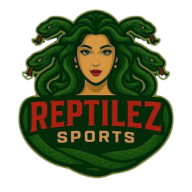
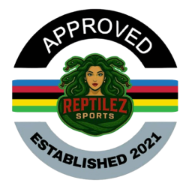
Replace the title and context

diff --git a/public/index.html b/public/index.html
@@ -13,7 +13,7 @@
 
     <meta
       name="description"
-      content="Reptilez Cycling Club - RCC is a premier amateur cycling team based in Tarlac and Pangasinan, dedicated to youth development and competitive racing. We nurture young riders through structured training that builds both performance and good character. Our mission is to become a model club that inspires the next generation of Filipino cyclists."
+      content="D&R Margin Racing - RCC is a premier amateur cycling team based in Tarlac and Pangasinan, dedicated to youth development and competitive racing. We nurture young riders through structured training that builds both performance and good character. Our mission is to become a model club that inspires the next generation of Filipino cyclists."
     />
     
     <!-- Open Graph / Facebook / Instagram -->
@@ -22,7 +22,7 @@
     <meta property="og:title" content="Reptilez Cycling Club" />
     <meta property="og:description" content="Reptilez Cycling Club is a premier amateur cycling team based in Tarlac and Pangasinan, dedicated to youth development and competitive racing. We nurture young riders through structured training that builds both performance and good character." />
     <meta property="og:image" content="https://reptilezcyclingclub.com/rcc_bg.jpg" />
-    <meta property="og:image:secure_url" content="https://reptilezcyclingclub.com/rcc_bg.jpg" />
+    <meta property="og:image:secure_url" content="https://reptilezcyclingclub.com/rcc4-with-bg.jpg" />
     <meta property="og:image:type" content="image/jpeg" />
     <meta property="og:image:width" content="1200" />
     <meta property="og:image:height" content="630" />
@@ -35,7 +35,7 @@
     <meta name="twitter:url" content="https://reptilezcyclingclub.com/" />
     <meta name="twitter:title" content="Reptilez Cycling Club" />
     <meta name="twitter:description" content="Reptilez Cycling Club is a premier amateur cycling team based in Tarlac and Pangasinan, dedicated to youth development and competitive racing." />
-    <meta name="twitter:image" content="https://reptilezcyclingclub.com/rcc_bg.jpg" />
+    <meta name="twitter:image" content="https://reptilezcyclingclub.com/rcc4-with-bg" />
     
     <link rel="manifest" href="%PUBLIC_URL%/manifest.json" />
     <link href="https://fonts.googleapis.com" rel="preconnect" />
@@ -43,7 +43,7 @@
     <link href="https://fonts.googleapis.com/css2?family=Poppins:wght@400;500;600;700;800&display=swap" rel="stylesheet" />
     <link href="https://fonts.googleapis.com/css2?family=DM+Sans:ital,wght@0,400;0,500;0,600;0,700;1,400&display=swap" rel="stylesheet" />
     <link href="https://fonts.googleapis.com/css2?family=Material+Symbols+Outlined:opsz,wght,FILL,GRAD@20..48,100..700,0..1,-50..200" rel="stylesheet" />
-    <title>Reptilez Cycling Club</title>
+    <title>D&amp;R Margin Racing</title>
   </head>
   <body>
     <noscript>You need to enable JavaScript to run this app.</noscript>

diff --git a/src/UserManagement/Home/Header.jsx b/src/UserManagement/Home/Header.jsx
@@ -251,7 +251,7 @@ const Header = ({ onLongPressTitle, offsetTop = 0 }) => {
           className="group flex items-center gap-2 sm:gap-3 transition-all duration-300 hover:scale-[1.02]"
         >
           <div className="flex items-center gap-1 sm:gap-2 relative">
-            {['/rcc1.png', '/rcc3.png'].map((src, idx) => (
+            {['/rcc1.png', '/rcc4-no-bg.png'].map((src, idx) => (
               <img
                 key={src}
                 src={src}

diff --git a/src/UserManagement/Home/Footer.jsx b/src/UserManagement/Home/Footer.jsx
@@ -33,6 +33,12 @@ const Footer = () => {
           />
 
           <img
+            src="/rcc4-with-bg.jpg"
+            alt="Reptilez Cycling Club logo 4"
+            className="h-12 w-12 rounded-full object-contain bg-white/5"
+          />
+
+          <img
             src="/margin-logo.jpg"
             alt="Margin Cycling"
             className="h-12 w-12 rounded-full object-contain bg-white/5"

diff --git a/src/hooks/usePageMeta.js b/src/hooks/usePageMeta.js
@@ -1,6 +1,6 @@
 import { useEffect } from 'react';
 
-const BASE_TITLE = 'Reptilez Cycling Club';
+const BASE_TITLE = 'D&R Margin Racing';
 
 // Simple helper to update only the document title.
 // Description meta tag stays managed by public/index.html.
